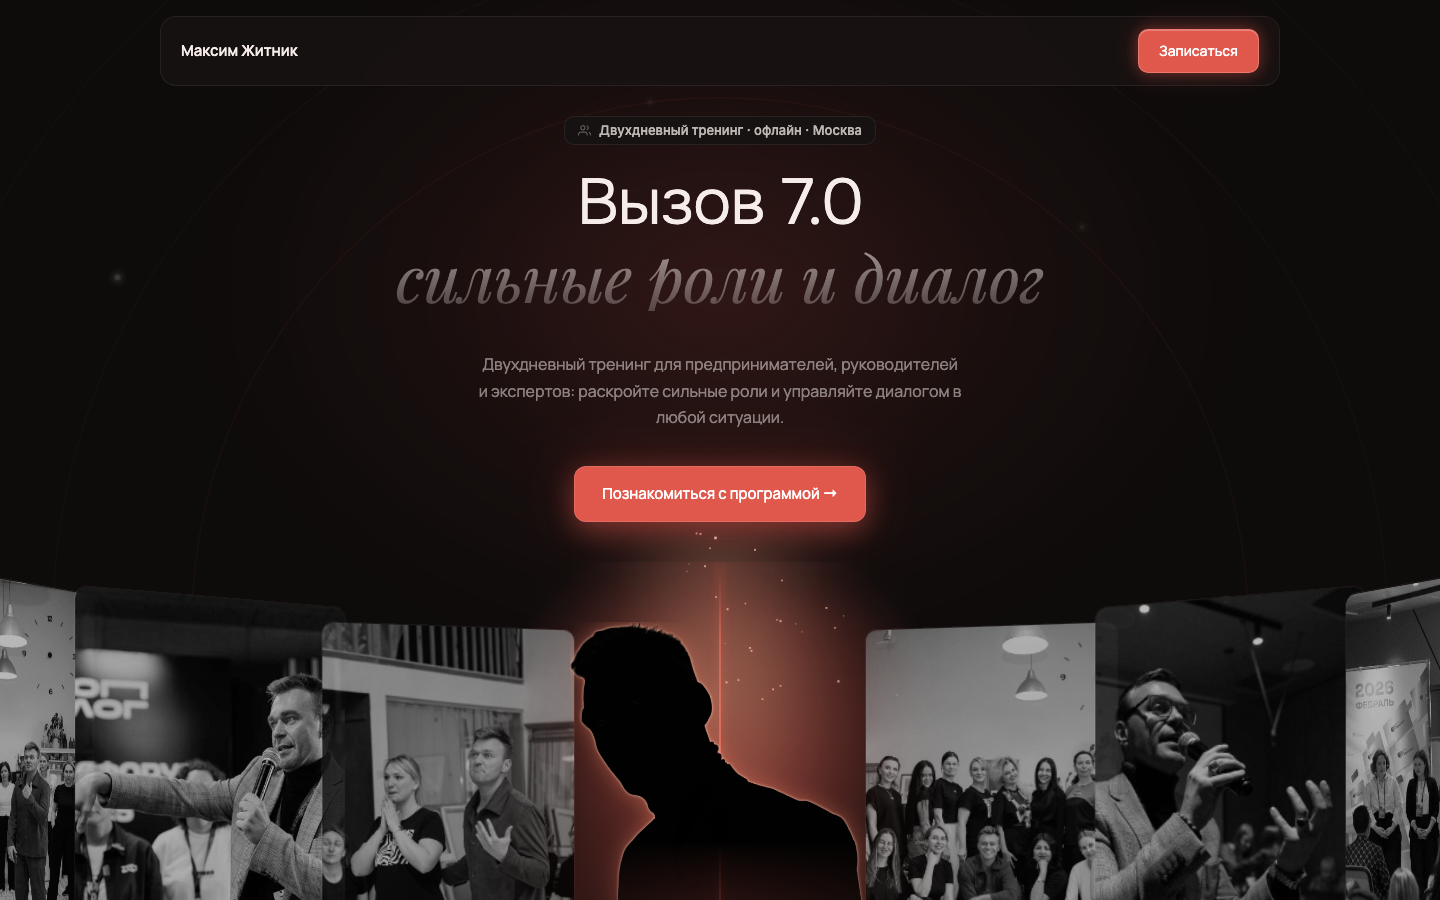
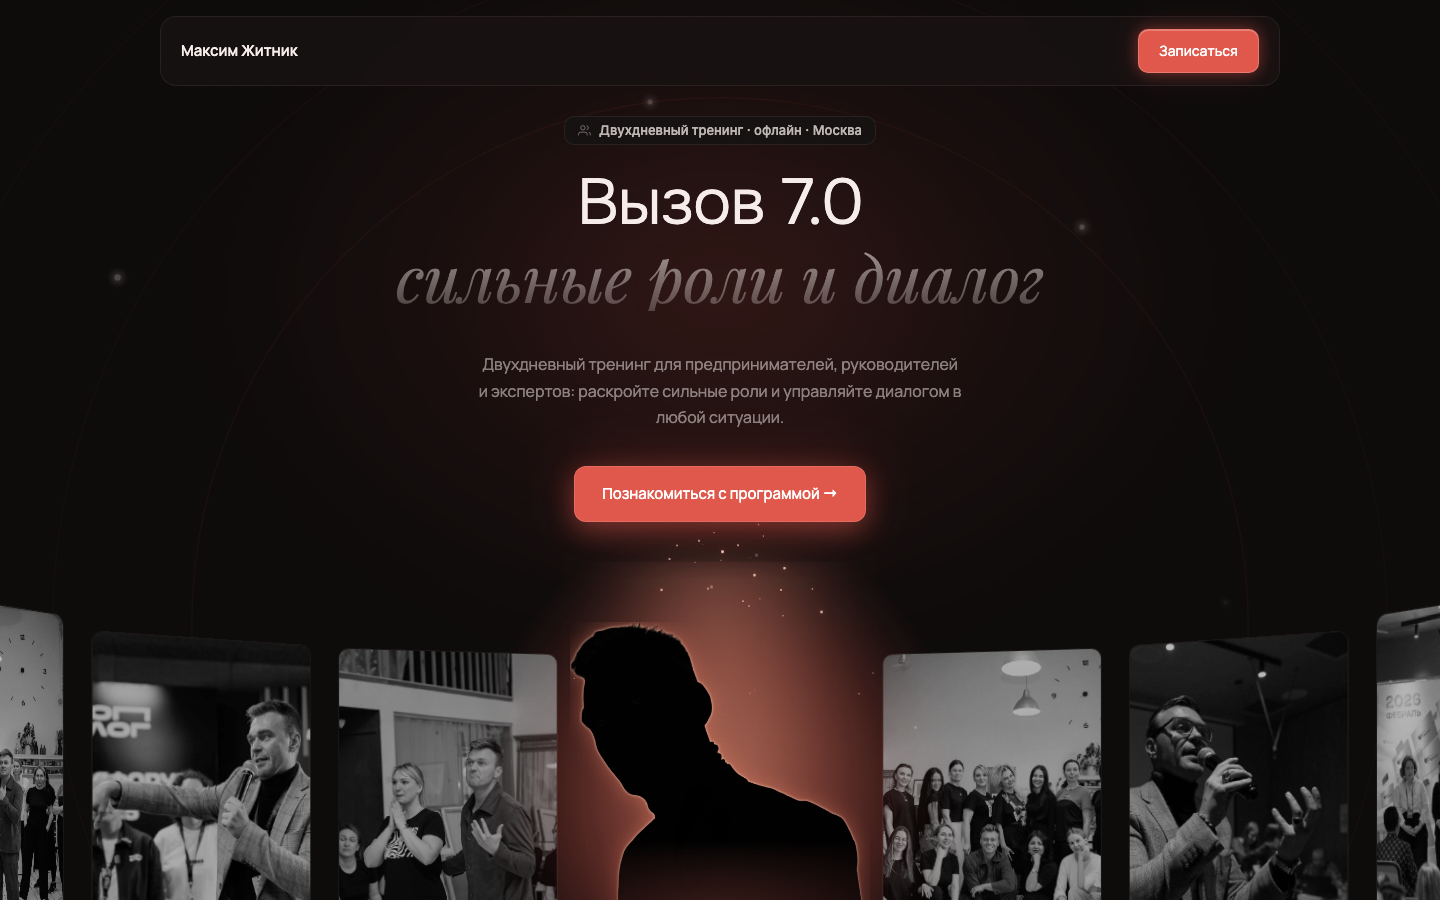
hero: reel-vline удалена, карточки без перекрытий (scale×cos≈1, gap 24px), beam плавный верх
- reel-vline { display: none } — красная вертикальная линия центра ленты убрана
- scale×cos(angle)≈1: rc-1 1.02, rc-2 1.10, rc-3 1.35 → визуальная ширина = слот, карточки не перекрывают друг друга
- gap: 14→24px, spacer 290→272px
- beam-wrap: mask-image top-fade 0%→8% → нет жёсткой горизонтальной границы свечения
- 5/5 checks OK (check-hero.js)

diff --git a/index.html b/index.html
@@ -355,24 +355,13 @@ section:not(.hero)::before {
 }
 .hero-audience svg { display: block; width: 100%; }
 
-.reel-vline {
-  position: absolute; left: 50%; top: 0; bottom: 0;
-  width: 2px; transform: translateX(-50%);
-  background: linear-gradient(to bottom,
-    transparent 0%,
-    rgba(224,87,75,.70) 15%,
-    rgba(224,87,75,.90) 45%,
-    rgba(224,87,75,.70) 85%,
-    transparent 100%);
-  box-shadow: 0 0 10px rgba(224,87,75,.75), 0 0 24px rgba(224,87,75,.40);
-  pointer-events: none; z-index: -1;
-}
+.reel-vline { display: none; }
 
 .reel {
   display: flex;
   justify-content: center;
   align-items: center;
-  gap: 14px;
+  gap: 24px;
   position: relative; z-index: 1;
 }
 
@@ -407,14 +396,14 @@ section:not(.hero)::before {
 .reel-video { position:absolute; inset:0; width:100%; height:100%; object-fit:cover; display:block; z-index:1; filter: grayscale(1) brightness(.8); }
 .reel-card.rc-c .reel-video { filter: grayscale(1) brightness(1.1); }
 
-/* Вогнутая лента: крайние ~330×480, средние ~300×435, внутренние ~260×370 */
-.reel-card.rc-3l { transform: perspective(1200px) rotateY(42deg) scale(1.50); opacity: .90; }
-.reel-card.rc-2l { transform: perspective(1200px) rotateY(25deg) scale(1.36); opacity: .92; }
-.reel-card.rc-1l { transform: perspective(1200px) rotateY(12deg) scale(1.18); opacity: .85; }
+/* scale подобран так что scale×cos(angle)≈1: визуальная ширина = layout-слоту → нет перекрытий */
+.reel-card.rc-3l { transform: perspective(1200px) rotateY(42deg) scale(1.35); opacity: .90; }
+.reel-card.rc-2l { transform: perspective(1200px) rotateY(25deg) scale(1.10); opacity: .92; }
+.reel-card.rc-1l { transform: perspective(1200px) rotateY(12deg) scale(1.02); opacity: .85; }
 .reel-card.rc-c  { transform: scale(0.97);                                    opacity: .95; }
-.reel-card.rc-1r { transform: perspective(1200px) rotateY(-12deg) scale(1.18); opacity: .85; }
-.reel-card.rc-2r { transform: perspective(1200px) rotateY(-25deg) scale(1.36); opacity: .92; }
-.reel-card.rc-3r { transform: perspective(1200px) rotateY(-42deg) scale(1.50); opacity: .90; }
+.reel-card.rc-1r { transform: perspective(1200px) rotateY(-12deg) scale(1.02); opacity: .85; }
+.reel-card.rc-2r { transform: perspective(1200px) rotateY(-25deg) scale(1.10); opacity: .92; }
+.reel-card.rc-3r { transform: perspective(1200px) rotateY(-42deg) scale(1.35); opacity: .90; }
 
 /* Текст/кнопка hero выше ленты */
 .hero-center { z-index: 5; }
@@ -1445,28 +1434,31 @@ footer p { font-size: 14px; color: var(--text-muted); }
   top: 532px; height: 600px;
   z-index: 0;
   pointer-events: none;
+  /* верхние 8% контейнера прозрачны → нет жёсткой горизонтальной границы */
+  -webkit-mask-image: linear-gradient(to bottom, transparent 0%, #000 8%, #000 100%);
+  mask-image: linear-gradient(to bottom, transparent 0%, #000 8%, #000 100%);
 }
 .hero-beam {
   position: absolute; inset: 0;
-  background: radial-gradient(ellipse 40% 100% at 50% 0%,
+  background: radial-gradient(ellipse 42% 80% at 50% 20%,
     rgba(250,165,135,.35),
-    transparent 70%);
-  filter: blur(24px);
+    transparent 72%);
+  filter: blur(26px);
   mix-blend-mode: screen;
 }
 
 /* Вертикальная линия — строго от btn.bottom+20 до head_y */
-/* Ореол позади фигуры: без border-radius, без overflow — только blur+gradient */
+/* Ореол позади фигуры: центр на 45% → верхние 45% прозрачны (нет жёсткой границы) */
 .hero-beam-glow {
   position: absolute;
-  top: 600px; left: 50%;
+  top: 560px; left: 50%;
   transform: translateX(-50%);
-  width: 520px; height: 420px;
-  background: radial-gradient(ellipse 50% 55% at 50% 22%,
+  width: 560px; height: 480px;
+  background: radial-gradient(ellipse 50% 60% at 50% 45%,
     rgba(250,165,120,.30) 0%,
-    rgba(224,87,75,.15)  48%,
-    transparent          75%);
-  filter: blur(24px);
+    rgba(224,87,75,.15)  50%,
+    transparent          76%);
+  filter: blur(26px);
   mix-blend-mode: screen;
   z-index: 2;
   pointer-events: none;
@@ -1481,8 +1473,8 @@ footer p { font-size: 14px; color: var(--text-muted); }
   pointer-events: none;
 }
 
-/* Проём под силуэт: spacer вместо margin */
-.reel-spacer { width: 290px; flex-shrink: 0; }
+/* Проём = плечи(240) + 40px с каждой стороны; spacer=272 → gap до плеча 40px */
+.reel-spacer { width: 272px; flex-shrink: 0; }
 
 @keyframes dust-float {
   0%   { transform: translateY(0px)   scale(1);  opacity: 0; }
